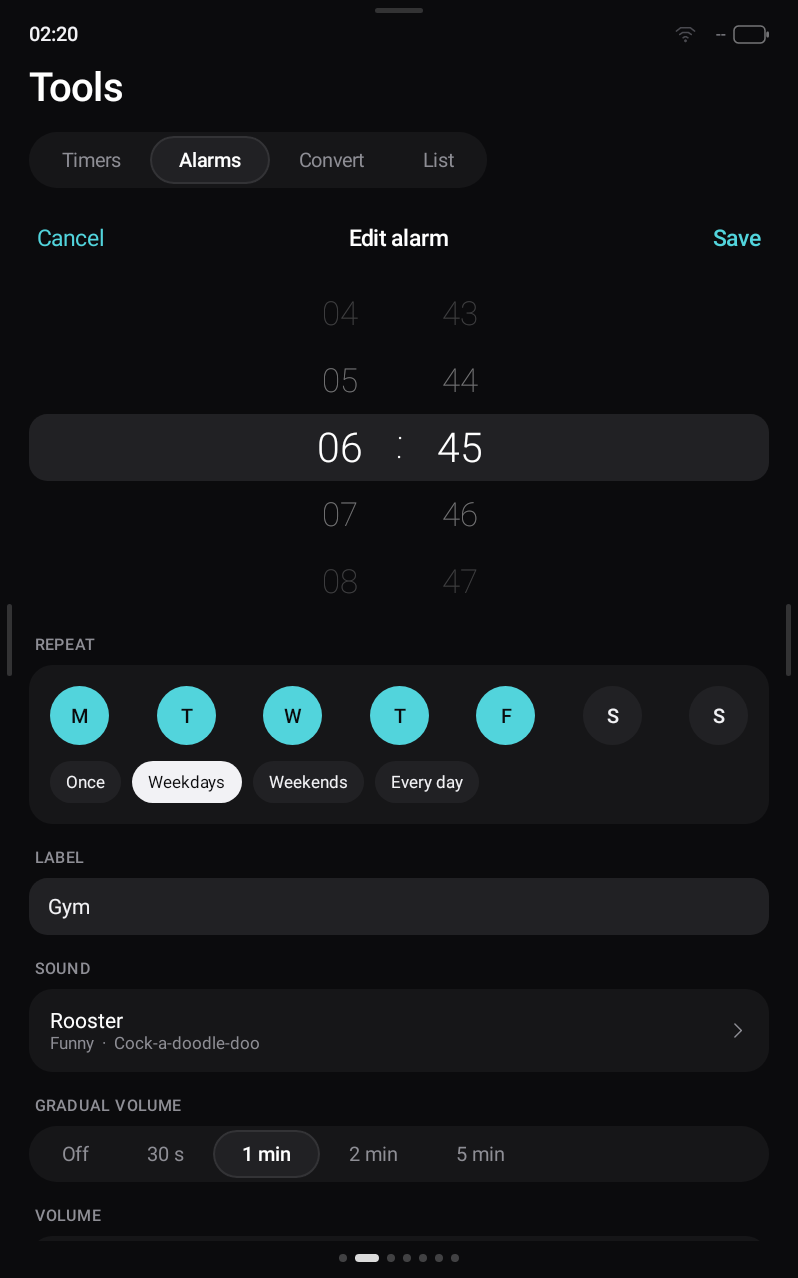
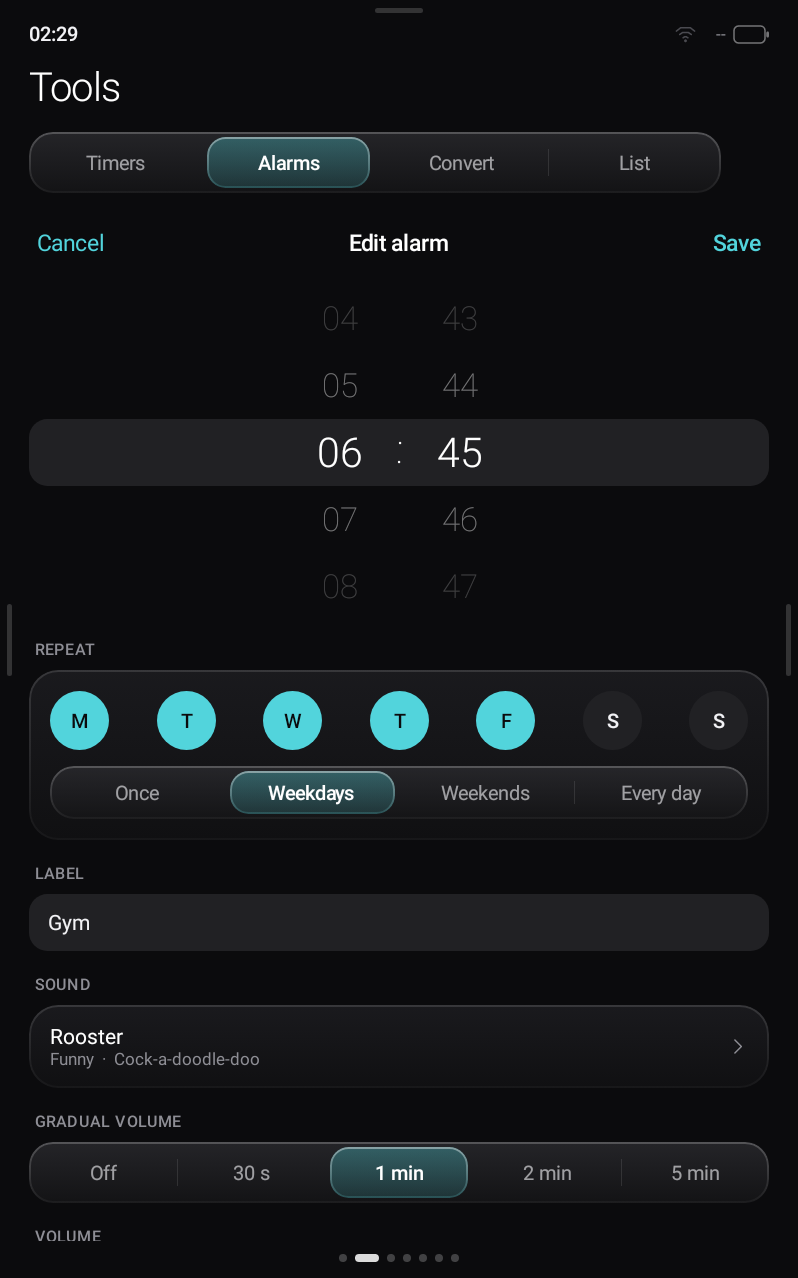
Alarms: glass look, sound credits, README, 1.6.0

diff --git a/app/src/main/java/com/andysocial/voidos/ui/AlarmsUi.kt b/app/src/main/java/com/andysocial/voidos/ui/AlarmsUi.kt
@@ -77,7 +77,6 @@ import java.util.Date
 import java.util.Locale
 import kotlin.math.abs
 
-private val Group = RoundedCornerShape(18.dp)
 
 private fun use24h() = runCatching { VoidApp.instance.store.use24h }.getOrDefault(true)
 
@@ -149,8 +148,7 @@ private fun AlarmCard(a: Alarm, now: Long, onEdit: () -> Unit) {
     val skipping = a.enabled && a.skipUntil > now
     val sound = AlarmSounds.byKey(a.sound)
     Column(
-        Modifier.fillMaxWidth().clip(Oct).background(V.Panel)
-            .border(1.dp, V.White.copy(alpha = 0.05f), Oct)
+        Modifier.fillMaxWidth().pane(Oct)
             .clickable(onClick = onEdit).padding(start = 20.dp, end = 16.dp, top = 14.dp, bottom = 14.dp)
             .testTag("alarm_${a.id}"),
     ) {
@@ -221,7 +219,7 @@ fun AlarmEditor(start: Alarm, isNew: Boolean, onClose: () -> Unit) {
                 if (!isNew) {
                     Gap(h = 16.dp)
                     Box(
-                        Modifier.fillMaxWidth().clip(Group).background(V.Panel).clickable { AlarmPreview.stop(); Alarms.remove(ctx, a.id); onClose() }
+                        Modifier.fillMaxWidth().pane(Oct).clickable { AlarmPreview.stop(); Alarms.remove(ctx, a.id); onClose() }
                             .padding(vertical = 16.dp),
                         contentAlignment = Alignment.Center,
                     ) { VText("Delete alarm", size = 16.sp, color = V.Coral) }
@@ -264,13 +262,9 @@ private fun AlarmOptions(a: Alarm, pickSound: Boolean, setPick: (Boolean) -> Uni
             }
         }
         Gap(h = 12.dp)
-        Row(horizontalArrangement = Arrangement.spacedBy(8.dp)) {
-            listOf(0 to "Once", AlarmMath.WEEKDAYS to "Weekdays", AlarmMath.WEEKENDS to "Weekends", AlarmMath.EVERY_DAY to "Every day").forEach { (mask, name) ->
-                val on = a.days == mask
-                Box(
-                    Modifier.clip(Pill).background(if (on) V.Text else V.Panel2).clickable { set(a.copy(days = mask)) }.padding(horizontal = 12.dp, vertical = 8.dp),
-                ) { VText(name, size = 13.sp, color = if (on) V.Bg else V.Text, maxLines = 1) }
-            }
+        val presets = listOf(0 to "Once", AlarmMath.WEEKDAYS to "Weekdays", AlarmMath.WEEKENDS to "Weekends", AlarmMath.EVERY_DAY to "Every day")
+        GlassSegments(presets.map { it.first.toString() to it.second }, a.days.toString(), Modifier.fillMaxWidth(), height = 40.dp) { k ->
+            set(a.copy(days = k.toInt()))
         }
     }
     Gap(h = 18.dp)
@@ -326,7 +320,7 @@ private fun AlarmOptions(a: Alarm, pickSound: Boolean, setPick: (Boolean) -> Uni
 
 @Composable
 private fun GroupBox(padding: Dp = 16.dp, content: @Composable ColumnScope.() -> Unit) =
-    Column(Modifier.fillMaxWidth().clip(Group).background(V.Panel).padding(padding), content = content)
+    Column(Modifier.fillMaxWidth().pane(Oct).padding(padding), content = content)
 
 @Composable
 private fun SoundPicker(selected: String, volume: Float, onPick: (String) -> Unit) {
@@ -337,15 +331,7 @@ private fun SoundPicker(selected: String, volume: Float, onPick: (String) -> Uni
         Box(Modifier.fillMaxWidth().height(1.dp).background(V.Line))
         Gap(h = 12.dp)
         // categories as chips that wrap onto the width they have
-        Row(Modifier.fillMaxWidth(), horizontalArrangement = Arrangement.spacedBy(6.dp)) {
-            SoundCat.entries.forEach { c ->
-                val on = c == cat
-                Box(
-                    Modifier.weight(1f).clip(Pill).background(if (on) V.Text else V.Panel2).clickable { cat = c }.padding(vertical = 8.dp),
-                    contentAlignment = Alignment.Center,
-                ) { VText(c.label, size = 13.sp, color = if (on) V.Bg else V.Text, maxLines = 1) }
-            }
-        }
+        GlassSegments(SoundCat.entries.map { it.name to it.label }, cat.name, Modifier.fillMaxWidth(), height = 40.dp, textSize = 13f) { cat = SoundCat.valueOf(it) }
         Gap(h = 8.dp)
         AlarmSounds.all.filter { it.cat == cat }.forEach { s ->
             val on = s.key == selected

diff --git a/app/src/main/java/com/andysocial/voidos/Alarms.kt b/app/src/main/java/com/andysocial/voidos/Alarms.kt
@@ -335,6 +335,7 @@ class AlarmReceiver : BroadcastReceiver() {
 /** Puts the alarms back after a reboot, a clock or time-zone change, or an update of VoidOS. */
 class AlarmBootReceiver : BroadcastReceiver() {
     override fun onReceive(c: Context, i: Intent) {
+        if (i.action !in setOf(Intent.ACTION_BOOT_COMPLETED, Intent.ACTION_TIME_CHANGED, Intent.ACTION_TIMEZONE_CHANGED, Intent.ACTION_MY_PACKAGE_REPLACED)) return
         Alarms.load(c, force = true)
         Alarms.rescheduleAll(c)
     }

diff --git a/docs/alarm-sounds.md b/docs/alarm-sounds.md
@@ -1,0 +1,44 @@
+# Alarm sounds
+
+VoidOS ships 20 alarm sounds in `app/src/main/res/raw/alarm_*.ogg` (mono Ogg Vorbis, about 3.3 MB in total).
+Every recording comes from [Freesound](https://freesound.org) under **Creative Commons 0 (CC0 1.0)**: the authors dedicated them to the public domain, so they can be bundled, edited and shipped in an app with no attribution or fee. They are credited here anyway, with thanks.
+Licence text: https://creativecommons.org/publicdomain/zero/1.0/
+
+Each sound was trimmed, faded, levelled to a loudness for its group (gentle quietest, loud loudest) and soft-limited by `tools/alarm-sounds/build.py`, which rebuilds them all from the downloads (`fs_get.py <user>/<id> ...` fetches them; `meta.json` records each page and its licence as read on 18 November 2026). Pulse is synthesised by that script, not recorded.
+
+Progressive sounds start almost silent and get louder on their own, then loop only their loud end. Any other sound can get gradual volume too: the alarm's Gradual volume setting fades it in over 30 seconds to 5 minutes.
+
+## Gentle
+
+- **Dawn chorus** (`alarm_dawn_chorus.ogg`, 36 s, 266 KB): [Morning-Birds.mp3](https://freesound.org/people/dadshb1489/sounds/390563/) by dadshb1489. Licence: CC0 1.0.
+- **Singing bowl** (`alarm_singing_bowl.ogg`, 26 s, 161 KB): [Tibetan singing bowl](https://freesound.org/people/enhuber/sounds/400819/) by enhuber. Licence: CC0 1.0.
+- **Music box** (`alarm_music_box.ogg`, 29 s, 220 KB): [gentle music box](https://freesound.org/people/Yuval/sounds/210799/) by Yuval. Licence: CC0 1.0.
+- **Wind chimes** (`alarm_wind_chimes.ogg`, 45 s, 327 KB): [Wind chimes 1](https://freesound.org/people/giddster/sounds/437337/) by giddster. Licence: CC0 1.0.
+
+## Classic
+
+- **Twin bell clock** (`alarm_twin_bell.ogg`, 29 s, 320 KB): [Twin Bell Alarm Clock Continuous Ringing](https://freesound.org/people/cryptidcat/sounds/743963/) by cryptidcat. Licence: CC0 1.0.
+- **Digital clock** (`alarm_digital.ogg`, 12 s, 90 KB): [Digital Alarm Clock Sound Effect](https://freesound.org/people/israra/sounds/434055/) by israra. Licence: CC0 1.0.
+- **Rotary phone** (`alarm_rotary_phone.ogg`, 24 s, 179 KB): [Old Rotary Phone Ringing - Western Electric Bell 500 phone](https://freesound.org/people/mycompasstv/sounds/456433/) by mycompasstv. Licence: CC0 1.0.
+- **Cuckoo clock** (`alarm_cuckoo.ogg`, 12 s, 73 KB): [Cuckoo Clock.wav](https://freesound.org/people/DiArchangeli/sounds/128177/) by DiArchangeli. Licence: CC0 1.0.
+
+## Loud
+
+- **School bell** (`alarm_school_bell.ogg`, 4 s, 25 KB): [School bell.wav](https://freesound.org/people/deleted_user_7020630/sounds/378394/) by deleted_user_7020630. Licence: CC0 1.0.
+- **Fog horn** (`alarm_fog_horn.ogg`, 5 s, 26 KB): [Loud fog horn](https://freesound.org/people/SamsterBirdies/sounds/437683/) by SamsterBirdies. Licence: CC0 1.0.
+- **Air raid siren** (`alarm_air_raid.ogg`, 40 s, 242 KB): [Air Raid Siren Alarm](https://freesound.org/people/Poligonstudio/sounds/412171/) by Poligonstudio. Licence: CC0 1.0.
+- **Air horn** (`alarm_air_horn.ogg`, 7 s, 31 KB): [Airhorn](https://freesound.org/people/jacksonacademyashmore/sounds/414208/) by jacksonacademyashmore. Licence: CC0 1.0.
+
+## Funny
+
+- **Rooster** (`alarm_rooster.ogg`, 4 s, 17 KB): [Rooster Crow 1](https://freesound.org/people/BenjaminNelan/sounds/435508/) by BenjaminNelan. Licence: CC0 1.0.
+- **Screaming goat** (`alarm_goat.ogg`, 9 s, 63 KB): [Goat in heat](https://freesound.org/people/Sadiquecat/sounds/750725/) by Sadiquecat. Licence: CC0 1.0. Bleats from a longer farm recording.
+- **Duck parade** (`alarm_ducks.ogg`, 9 s, 52 KB): [single quack from a duck](https://freesound.org/people/Mikes-MultiMedia/sounds/418509/) by Mikes-MultiMedia, [Toy Ducks Quacking](https://freesound.org/people/nebyoolae/sounds/348791/) by nebyoolae. Licence: CC0 1.0.
+- **Bugle call** (`alarm_bugle.ogg`, 16 s, 108 KB): [G39-16-Bugle Call.wav](https://freesound.org/people/craigsmith/sounds/438633/) by craigsmith. Licence: CC0 1.0.
+- **Slide whistle** (`alarm_slide_whistle.ogg`, 21 s, 149 KB): [Slide Whistle](https://freesound.org/people/sheepfilms/sounds/202753/) by sheepfilms. Licence: CC0 1.0.
+
+## Builds up (progressive)
+
+- **Sunrise** (`alarm_sunrise.ogg`, 97 s, 809 KB): [Morning-Birds.mp3](https://freesound.org/people/dadshb1489/sounds/390563/) by dadshb1489, [Wind chimes 1](https://freesound.org/people/giddster/sounds/437337/) by giddster, [gentle music box](https://freesound.org/people/Yuval/sounds/210799/) by Yuval, [Twin Bell Alarm Clock Continuous Ringing](https://freesound.org/people/cryptidcat/sounds/743963/) by cryptidcat. Licence: CC0 1.0. Mix of four CC0 recordings: birds, then wind chimes, then the music box, then the twin bell clock.
+- **Escalation** (`alarm_escalation.ogg`, 36 s, 174 KB): [single quack from a duck](https://freesound.org/people/Mikes-MultiMedia/sounds/418509/) by Mikes-MultiMedia, [Rooster Crow 1](https://freesound.org/people/BenjaminNelan/sounds/435508/) by BenjaminNelan, [G39-16-Bugle Call.wav](https://freesound.org/people/craigsmith/sounds/438633/) by craigsmith, [Airhorn](https://freesound.org/people/jacksonacademyashmore/sounds/414208/) by jacksonacademyashmore. Licence: CC0 1.0. Duck, rooster, bugle, then the air horn on repeat.
+- **Pulse** (`alarm_pulse.ogg`, 54 s, 61 KB): synthesised in build.py (no recording). Licence: CC0 1.0. Synthesised for VoidOS: soft slow beeps that speed up and get louder, then the classic four-beep pattern.

diff --git a/README.md b/README.md
@@ -15,12 +15,14 @@ bars and pin itself in lock mode. No root needed.
 | Screen | What it does |
 | --- | --- |
 | Home | The date and a large, thin clock, running timers as small pills underneath, and optional widgets (weather, music, the list, notes) you hold to drag anywhere |
-| Tools | Timers that ring over everything (and keep going in the background), a unit converter (weight, volume, temperature incl. gas marks, length) and a list sorted by aisle |
+| Tools | Timers that ring over everything (and keep going in the background), alarms (below), a unit converter (weight, volume, temperature incl. gas marks, length) and a list sorted by aisle |
 | Weather | Open-Meteo weather (no key): now, 12-hour graph, six days; last known weather when offline |
 | Notes | Like Notes on an iPad: list by day with search, the first line is the title, a floating pen capsule for drawing (7 colours, 4 sizes, solid/dotted/dashed, eraser, undo, clear), any note can go on Home as a widget |
 | Sound | One now-playing card for whatever is playing, YouTube, Spotify or a file on the tablet (artwork, progress, controls, volume; apps need notification access), your music files in a sidebar behind Files, brown noise made on-device |
 | Apps | A plain icon grid of only the apps you switch on in Manage that will actually open; everything else is hidden from VoidOS. Search, starred apps in a dock (long-press), quick actions |
 | Settings | A grouped list (Connections, Screen, VoidOS, Tablet) with the page beside it, or over it when upright |
+
+**Alarms** (Tools > Alarms): set the time on iPhone-style wheels, repeat on any days (or once), label, snooze length (or no snooze), volume, and gradual volume that fades any sound in over 30 s to 5 min. Skip the next ring of a repeating alarm. 20 bundled sounds in five groups: gentle, classic, loud, funny, and three that build up on their own (Sunrise, Escalation, Pulse). Alarms use Android's exact alarm-clock timer, wake the screen and ring full screen over the lock screen and the VoidOS lock, play on the alarm channel so Do Not Disturb lets them through, are put back after a reboot or a clock change, and stop after 15 minutes with a missed-alarm note. The next alarm within a day shows under the clock on Home. Sounds, sources and licences (all CC0): [`docs/alarm-sounds.md`](docs/alarm-sounds.md).
 
 Getting around (no sidebar):
 
